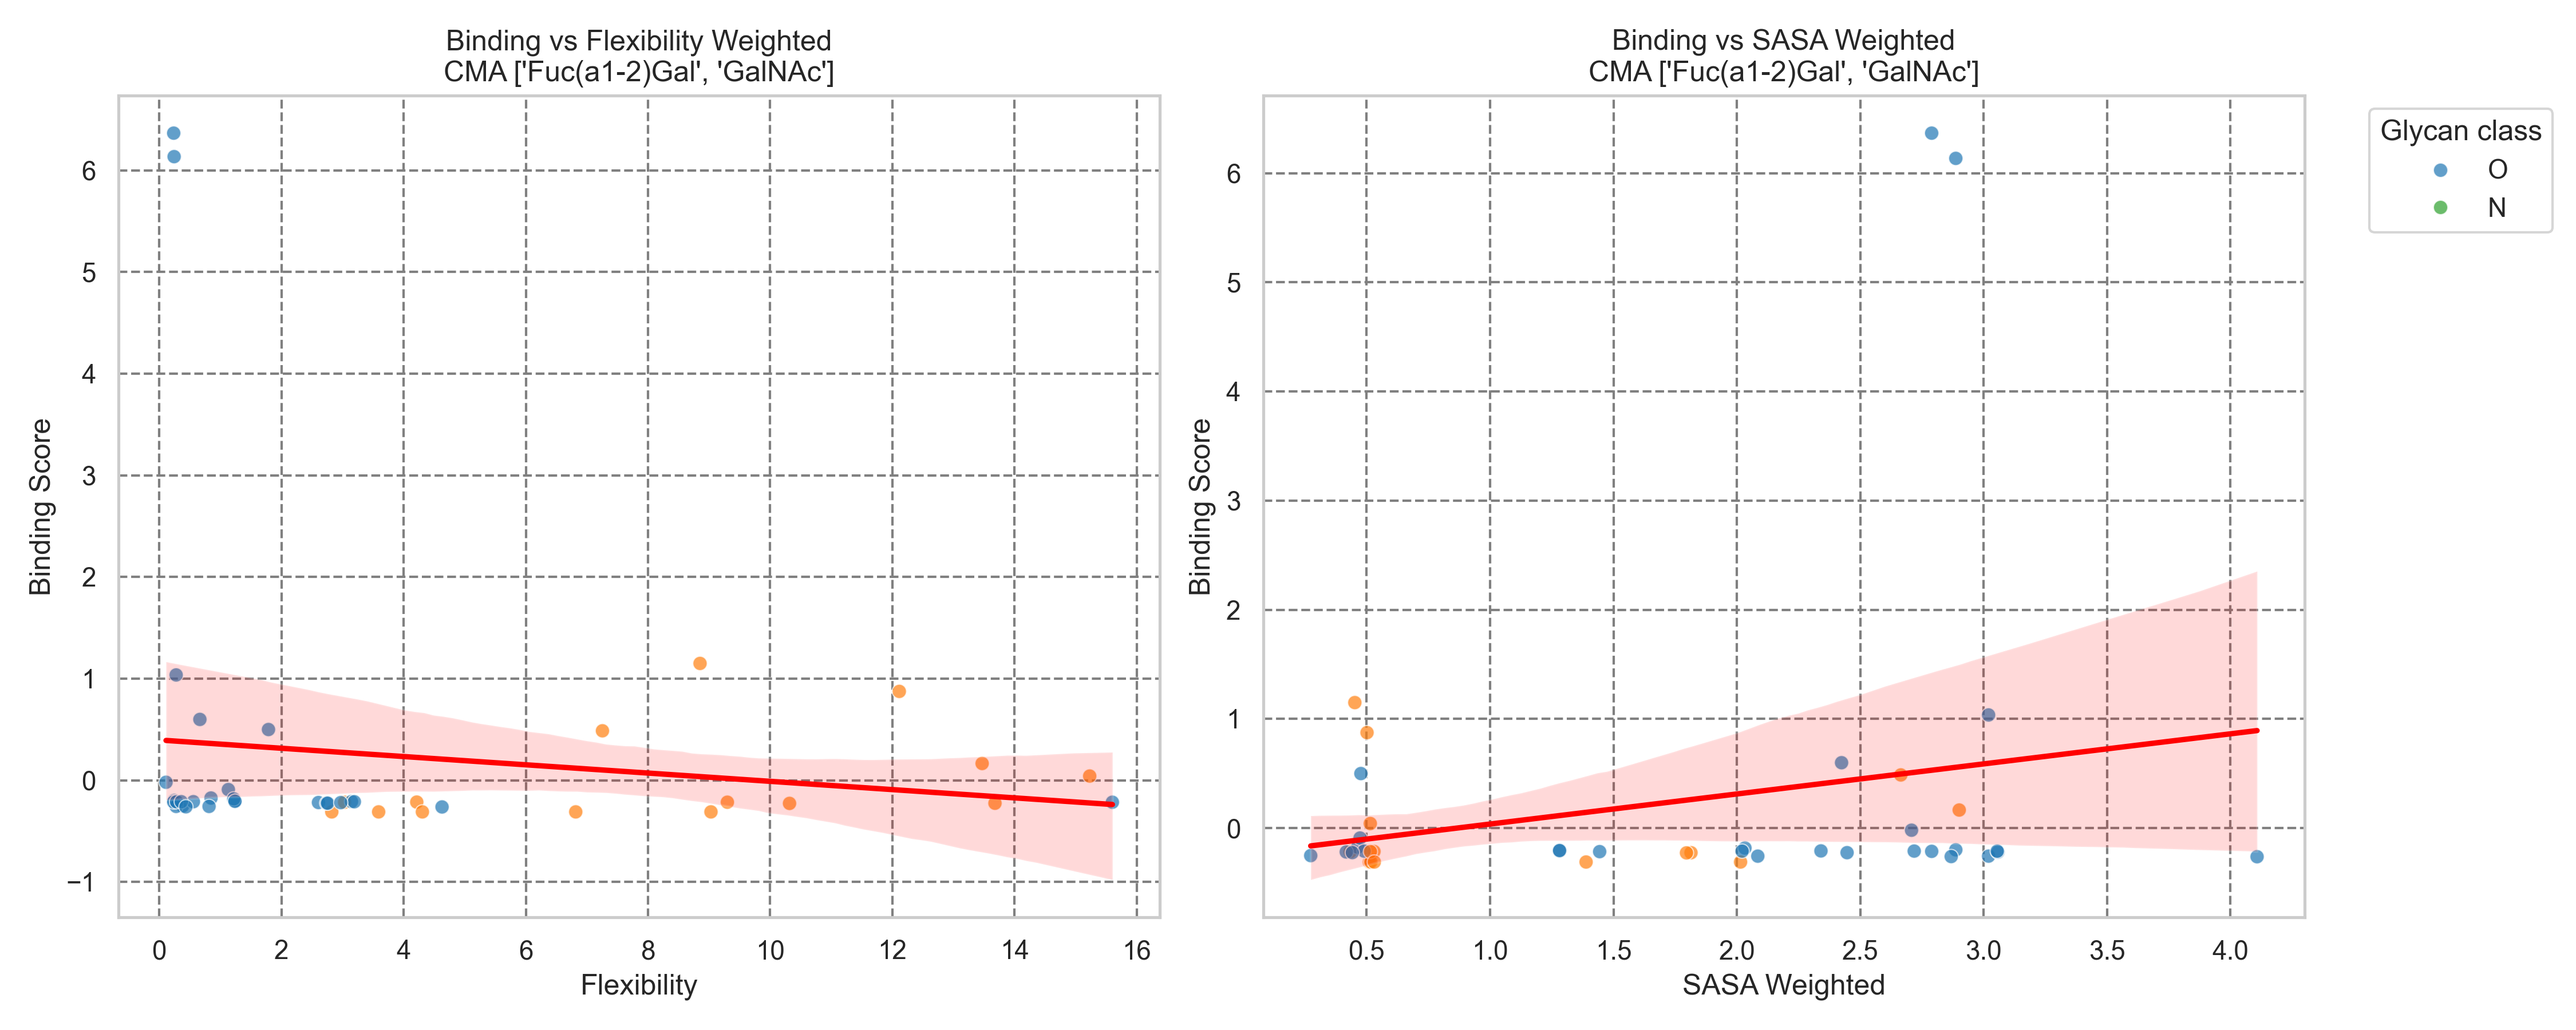
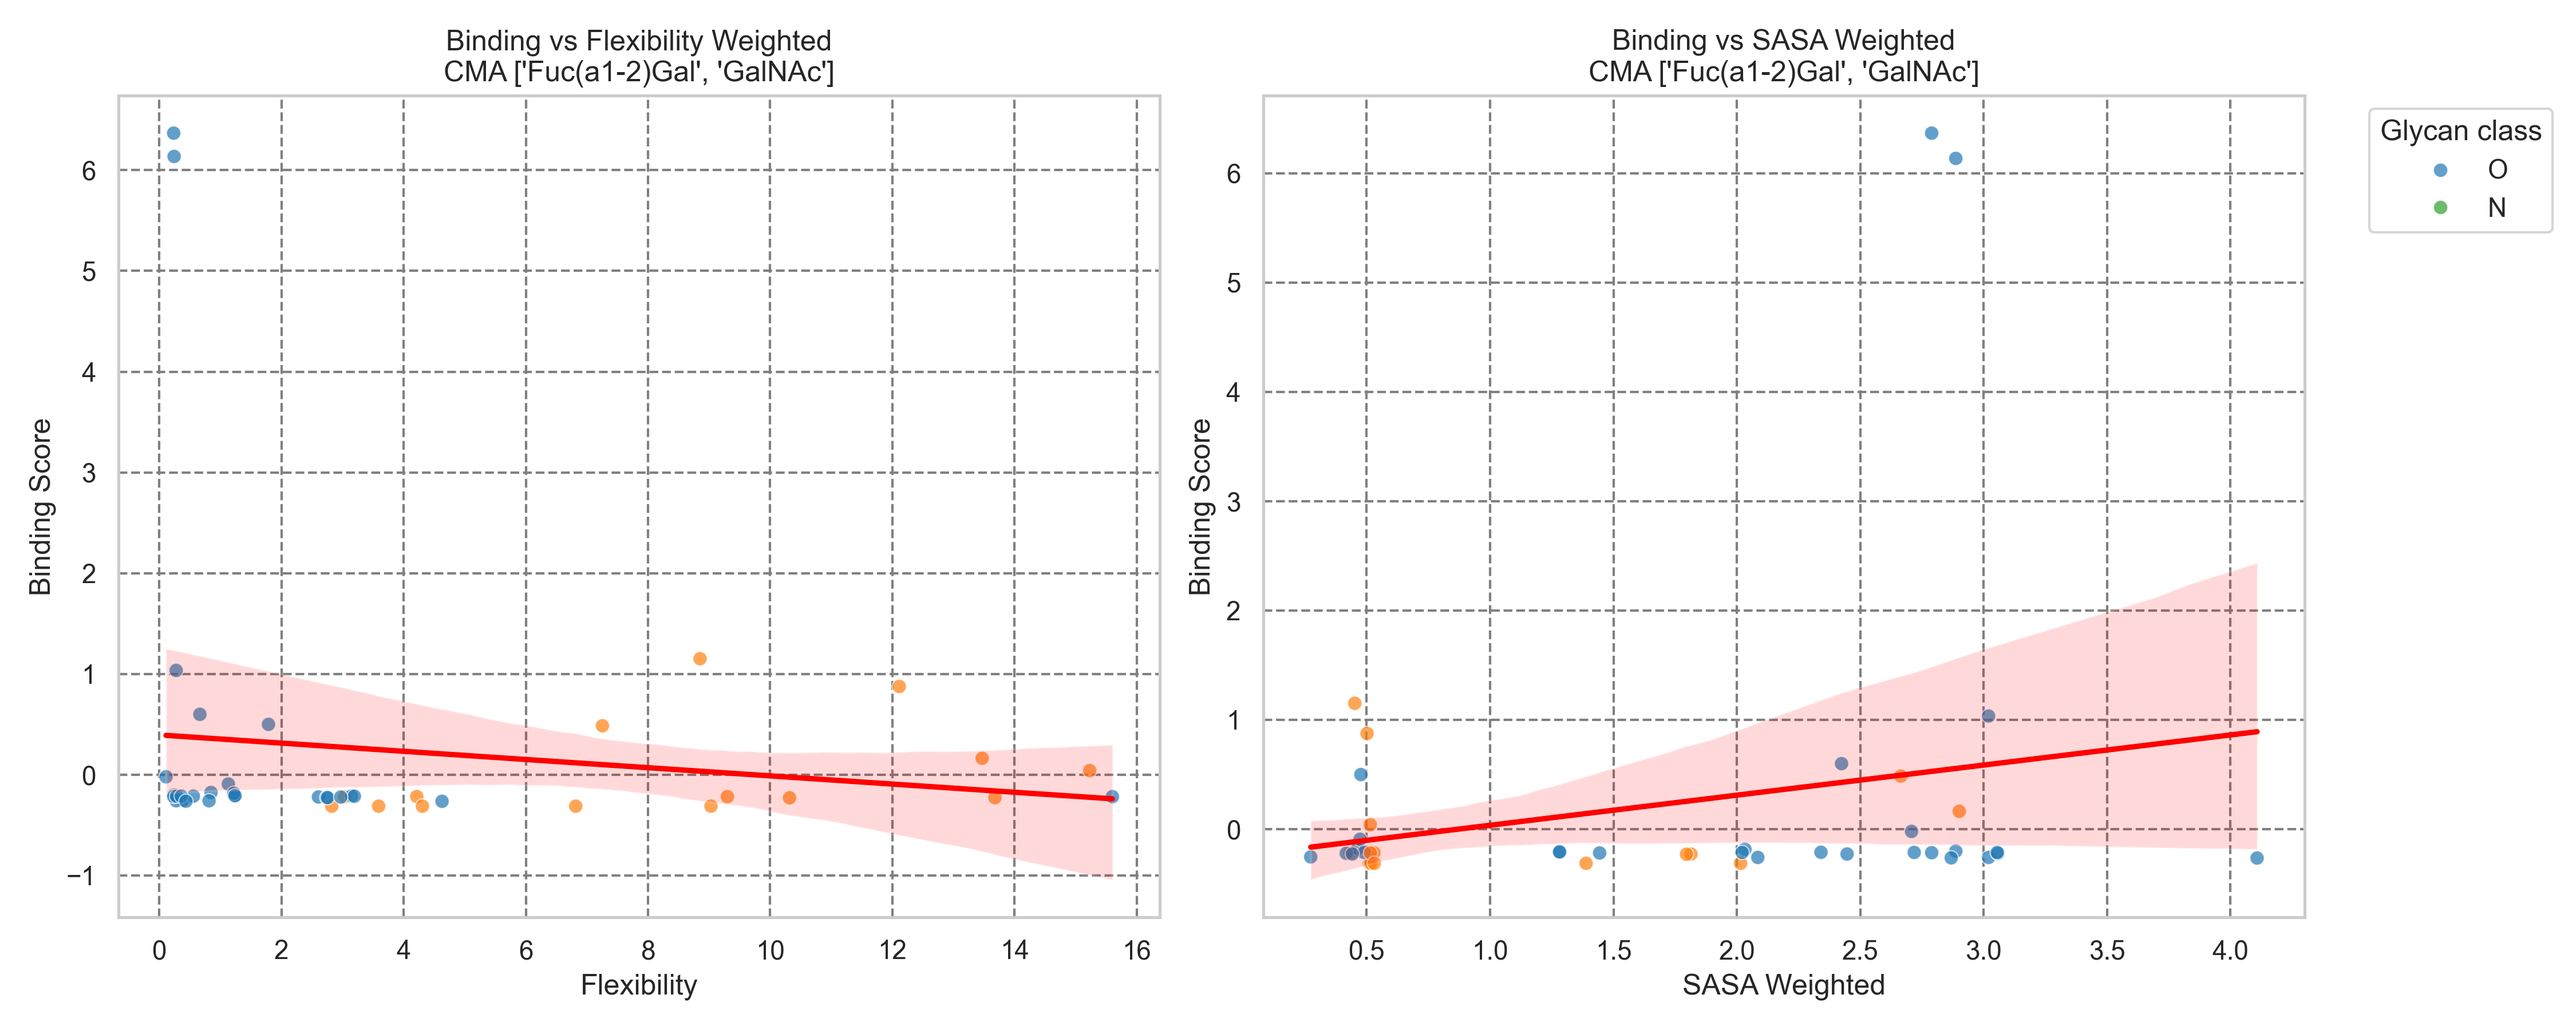
set 3: terminal_binding_motif, get_class, subgraph_isomorphism

diff --git a/scripts/correlation/lectin_motif.py b/scripts/correlation/lectin_motif.py
@@ -19,15 +19,16 @@ set2= {
 
 #Set3
 lectin_binding_motif = {
-    #"AAL": ["Fuc"],
-    #"SNA": ["Sia(a2-6)"],
-    #"ConA": ["Man"],
-    #"MAL-II": ["Neu5Ac(a2-3)"],
-    #"PNA": ["Gal(b1-3)GalNAc"],
+    "AAL": ["Fuc"],
+    "SNA": ["Sia(a2-6)"],
+    "ConA": ["Man"],
+    "MAL-II": ["Neu5Ac(a2-3)"],
+    "PNA": ["Gal(b1-3)GalNAc"],
     "CMA": ["Fuc(a1-2)Gal", "GalNAc"], # specifiy th terminal node within is teh first monosac if there is more then one
-# "CF": ["GalNAc(a1-?)", "GlcNAc(b1-?)"], No lectin found
-    #"HPA": ["GalNAc(a1-?)", "GlcNAc(b1-?)"],
-#"LAA": ["Fuc(a1-2)Gal(b1-4)GlcNAc"], No lectin found
+ #"CF": ["GalNAc(a1-?)", "GlcNAc(b1-?)"], # No lectin found
+    "AOL": ["Fuc"],
+    "HPA": ["GalNAc(a1-?)", "GlcNAc(b1-?)"],
+#"LAA": ["Fuc(a1-2)Gal(b1-4)GlcNAc"]#, No lectin found
                         }
 
 for lectin, binding_motif in lectin_binding_motif.items():

diff --git a/scripts/correlation/func/metric_df3.py b/scripts/correlation/func/metric_df3.py
@@ -5,7 +5,7 @@ from glycowork.motif.processing import get_class
 from glycowork.motif.graph import *
 
 flex_data_path = 'data/glycan_graphs.pkl'
-binding_data_path = 'data/glycan_binding.csv'
+binding_data_path = 'data/20241206_glycan_binding.csv'
 
 
 def load_data():
